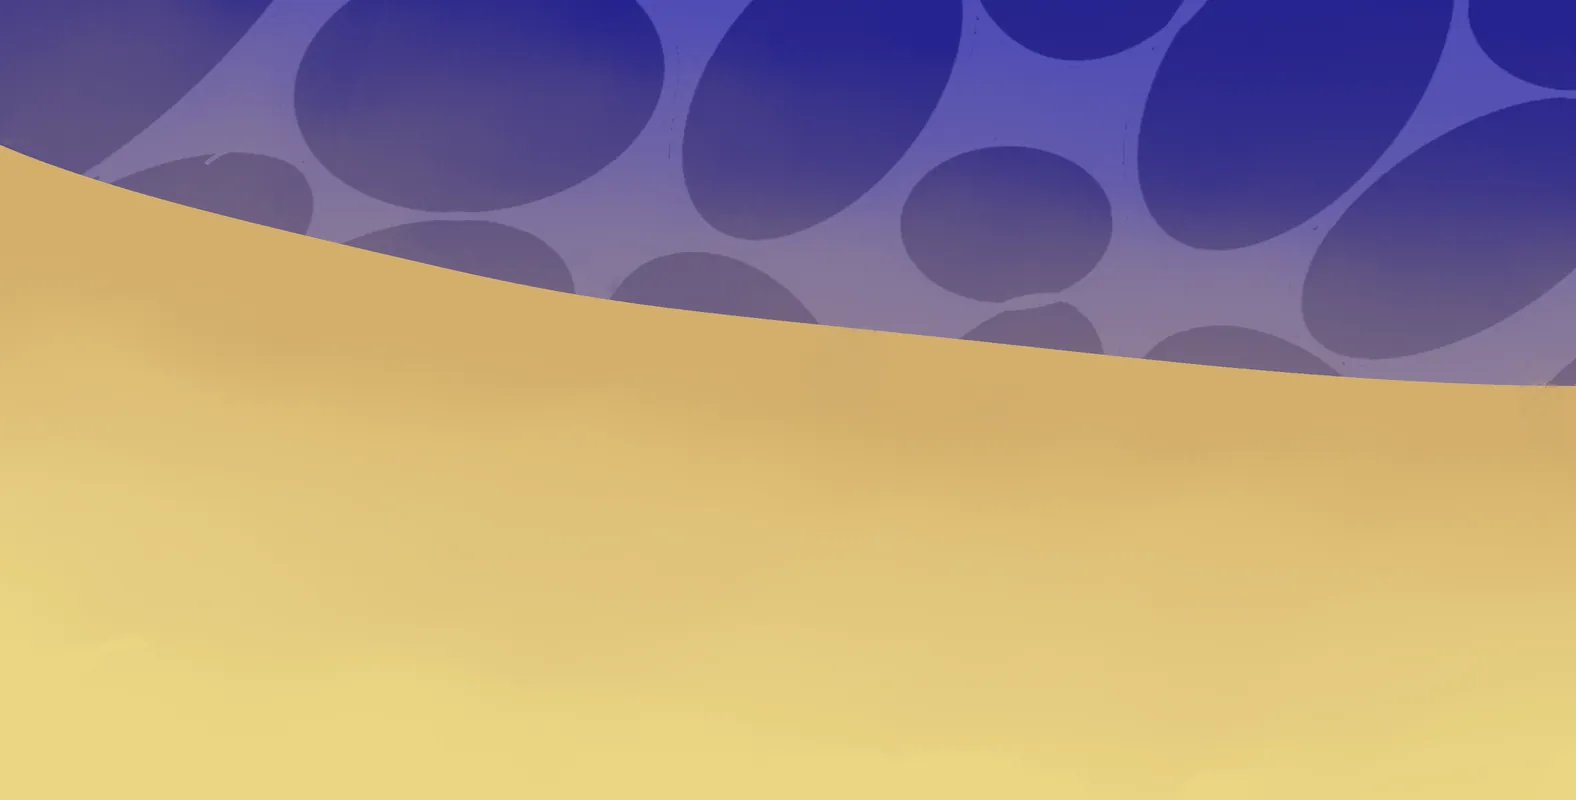
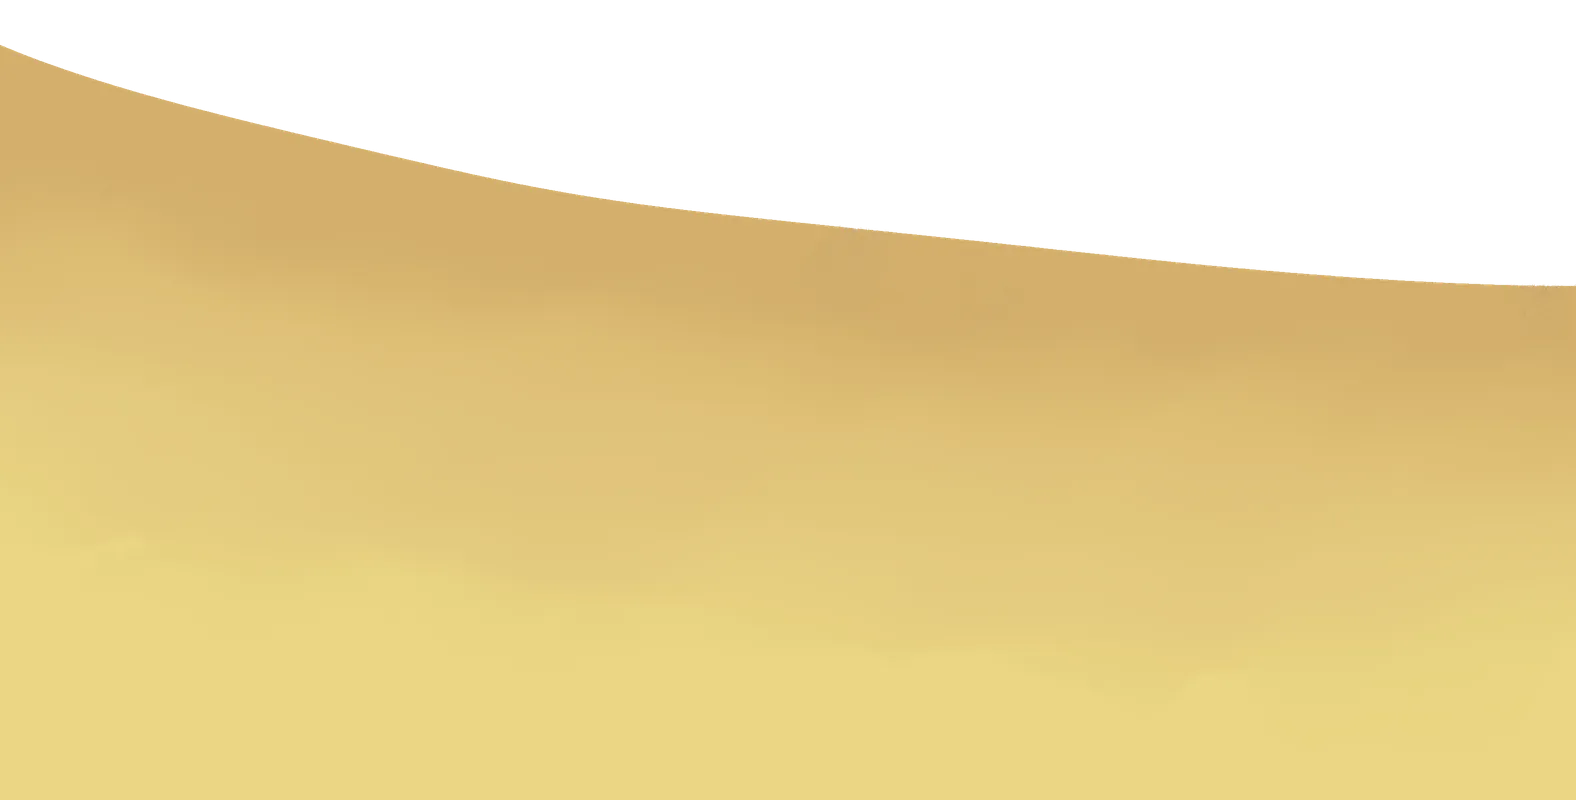
Sand band: shore cut with real transparency, flat sand fill, shells beside the FAQ list, heading reset

diff --git a/app/assets/stylesheets/landing_world_sand.css b/app/assets/stylesheets/landing_world_sand.css
@@ -1,6 +1,42 @@
 /* Band: sand. Owned by the sand band agent only. Shared rules, colors, the --wu unit and the contract are in landing_world.css. */
 
-/* First cut. The wrapper's top is canvas y 6300. The sand piece is canvas y 5500..7100, shell 1 at x 2545 y 6453, shell 2 at x 260 y 7883. */
-.landing .world--sand .world__sand { left: 50%; top: calc(var(--wu) * -400); width: max(100%, var(--world-w)); translate: -50% 0; }
-.landing .world--sand .world__shell--1 { left: calc(50% + var(--wu) * 484); top: calc(var(--wu) * 76); width: calc(var(--wu) * 184); }
-.landing .world--sand .world__shell--2 { left: calc(50% - var(--wu) * 658); top: calc(var(--wu) * 1010); width: calc(var(--wu) * 170); }
+/* The section itself is transparent: its top part is where the floor band's pebbles show above the shore curve, so the
+   flat sand lives in the stage below the piece instead. The wrapper may overhang upward (into .prizes) but is clipped
+   at the sides and the bottom, where the final band takes over. */
+/* Windows wider than the painting scale the shore up, so its low right end dips below the top of this section, where
+   .prizes no longer paints behind it. A strip in the floor's end color (the contract's color where floor meets sand) keeps
+   that wedge from showing the page behind. It is as tall as the curve can dip (about 18vw), and the piece covers it
+   below the curve. */
+.landing .faq { background: linear-gradient(var(--world-floor-end), var(--world-floor-end)) top / 100% 20vw no-repeat; }
+.landing .world--sand { clip-path: inset(-100vh 0 0 0); }
+
+/* The stage is the sand piece (canvas y 5700..7300, so 300 design px above the section top) at the piece's own scale:
+   at least the section's width, and never narrower than the painting's width times --wu. Wider windows scale it up
+   evenly (it is smooth art), narrower ones show its middle. Under it, flat --world-sand, which is the piece's last row. */
+.landing .world--sand .sand__stage { position: absolute; left: 50%; top: calc(var(--wu) * -300); width: max(100%, var(--world-w)); translate: -50% 0; }
+.landing .world--sand .sand__img { position: static; width: 100%; height: auto; }
+/* Until the (lazy) piece has loaded, show flat sand below where the curve can reach (it is above 36% of the piece's height)
+   instead of the page behind. The piece is opaque below the curve, so once it loads this is hidden. */
+.landing .world--sand .sand__stage { background: linear-gradient(to bottom, transparent 38%, var(--world-sand-top) 38%, var(--world-sand) 85%); }
+.landing .world--sand .sand__stage::after { content: ""; position: absolute; left: 0; right: 0; top: calc(100% - 2px); height: 1500px; background: var(--world-sand); }
+
+/* Shells: beside the FAQ list on desktop (painting: shell 1 at design x 1272, shell 2 at x 130, from the page middle
+   +484 and -658). Narrower than that they stay on screen at the edges. */
+.landing .world--sand .world__shell--1 { left: min(calc(50% + var(--wu) * 484), calc(100% - 6rem)); top: calc(var(--wu) * 76); width: calc(var(--wu) * 184); }
+.landing .world--sand .world__shell--2 { left: max(calc(50% - var(--wu) * 658), 0px); top: calc(var(--wu) * 1010); width: calc(var(--wu) * 170); }
+
+/* The heading sits on the sand above the list, at the content column's left edge, as in the painting. landing.css
+   hung it off the old river bank with a negative top. */
+.landing .faq__head { position: relative; left: auto; top: auto; translate: none; margin-bottom: 1.5rem; }
+
+/* The section's own height: sand under the list for the final band's overlap (it reaches up 200 design px), plus on
+   phones room for the lower shell. */
+.landing .faq .slab > .in { padding-bottom: calc(var(--wu) * 230 + 2.5rem); }
+
+/* Phones: the list fills the width, so the shells sit where it is not. The upper one peeks in from the right above the
+   heading, the lower one from the left below the list, both cut by the window edge and never under text. */
+@media (max-width: 47.99rem) {
+  .landing .faq .slab > .in { padding-bottom: calc(var(--wu) * 230 + 8.5rem); }
+  .landing .world--sand .world__shell--1 { left: calc(100% - 4.25rem); top: 0.25rem; width: 6.5rem; }
+  .landing .world--sand .world__shell--2 { left: -2.25rem; top: auto; bottom: calc(var(--wu) * 240 + 0.5rem); width: 6.25rem; }
+}

diff --git a/script/export_landing_world.py b/script/export_landing_world.py
@@ -119,7 +119,29 @@ save("floor", "floor", art.crop((0, 4650, W, 5600)))
 
 # 6. Sand: the end of the floor, the wavy shore and the sand down to where it is flat. Opaque. The sand band owns the
 #    floor-to-sand seam. And the sand into the pale blue of the last section, flat at both ends (final band).
-save("sand", "sand", art.crop((0, 5500, W, 7100)))
+# The sand piece is cut along the shore's curve: transparent above it (the floor band's pebbles show through), opaque sand
+# below, ending in the flat sand color. Canvas y 5700..7300.
+# --- sand-cut-begin
+def sand_cut(art_img, y0=5700, y1=7300):
+    a = np.asarray(art_img.convert("RGB")).astype(float)[y0:y1]
+    t = np.clip((a[:, :, 0] - a[:, :, 2] + 20) / 123.0, 0, 1)  # 0 on the lavender floor, 1 on sand
+    full_rows = np.argmax(t > 0.99, axis=0)  # first solid sand row per column
+    pad = np.pad(full_rows, 30, mode="edge")  # a dark fleck can hide the curve in a column: follow its neighbors instead
+    full_rows = np.minimum(full_rows, np.array([int(np.median(pad[i:i + 61])) + 1 for i in range(len(full_rows))]))
+    rgb = a.copy()
+    alpha = np.ones_like(t)
+    for x in range(a.shape[1]):
+        f = int(full_rows[x])
+        rgb[:f, x] = a[min(f + 6, a.shape[0] - 1), x]
+        alpha[:max(f - 3, 0), x] = 0
+        alpha[max(f - 3, 0):f, x] = t[max(f - 3, 0):f, x]
+        for y in range(f + 1, min(f + 60, a.shape[0])):  # the art has a few dark pebble flecks just under the curve
+            if t[y, x] < 0.9:
+                rgb[y, x] = rgb[y - 1, x]
+    out_img = np.dstack([rgb, alpha * 255]).clip(0, 255).astype(np.uint8)
+    return Image.fromarray(out_img, "RGBA")
+# --- sand-cut-end
+save("sand", "sand", sand_cut(art))
 save("final", "shore", art.crop((0, 8250, W, 8900)))
 
 # 7. Shells: layers 25 and 26.
